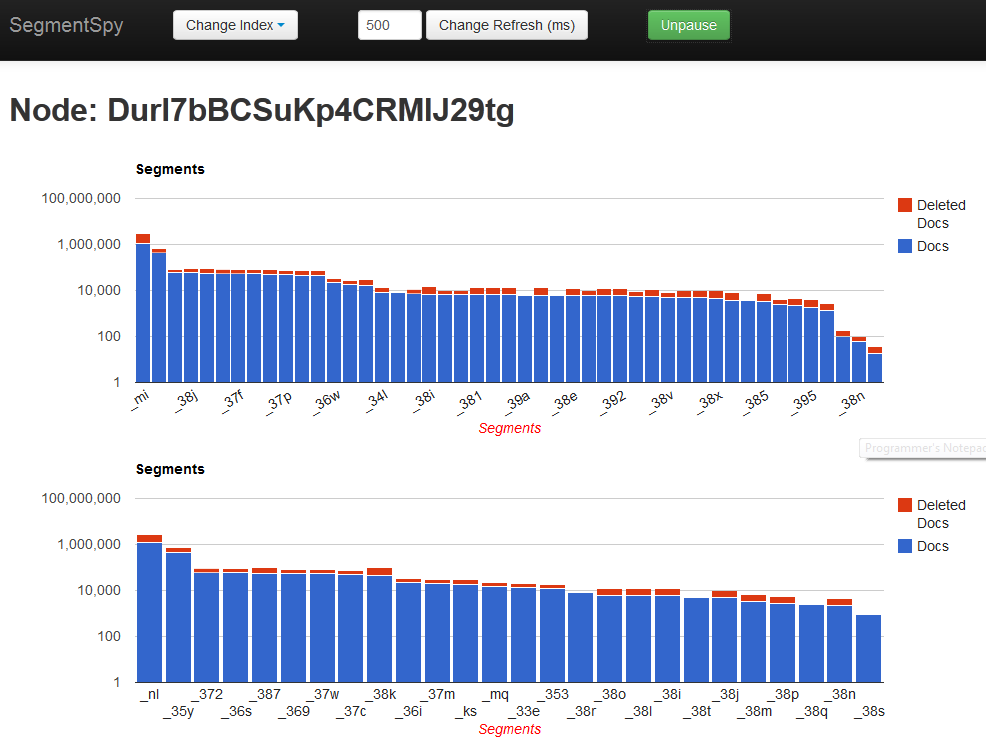
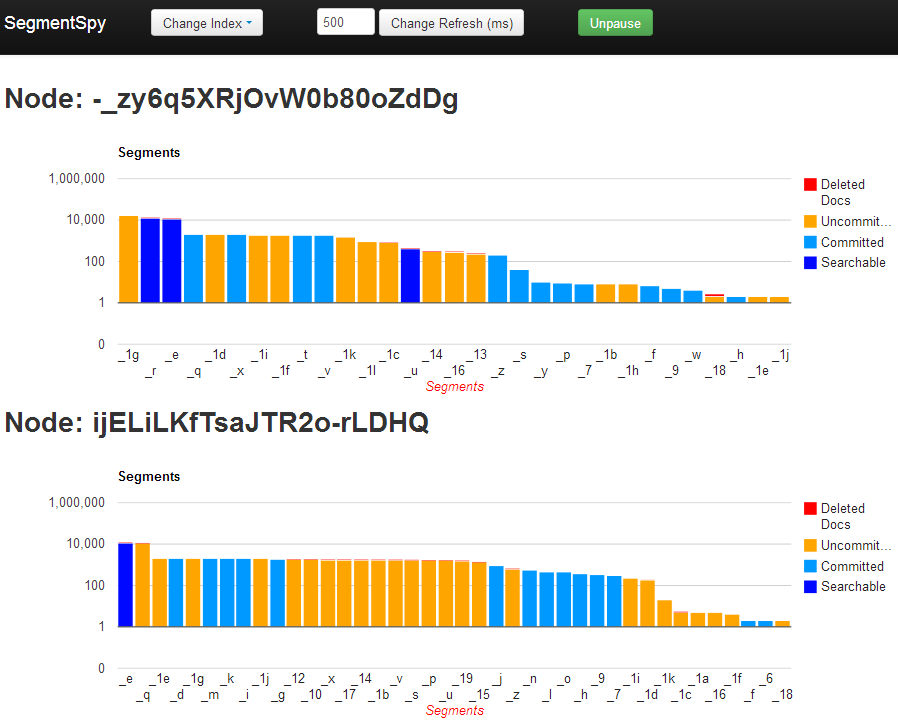
Add committed/uncommitted to graph, more accurate math

diff --git a/_site/js/app.js b/_site/js/app.js
@@ -11,6 +11,9 @@ $(document).ready(function () {
 	   }
 	}
 
+	function log10(val) {
+		return Math.log(val) / Math.LN10;
+	}
 
 		var global = {};
 		global.homeTemplate = Handlebars.compile($("#home-template").html());
@@ -85,6 +88,11 @@ $(document).ready(function () {
 			
 			
 				poll: function(index) {
+				
+					//Kill caching for all subsequent caching requests
+					$.ajaxSetup ({ 
+						cache: false 
+					}); 
 					
 					var formattedIndex = index;
 					
@@ -115,38 +123,49 @@ $(document).ready(function () {
 									if (typeof segments[divId] === 'undefined')
 										segments[divId] = [];
 										
-									segments[divId].push(['Segment ID', 'Docs', 'Deleted Docs']);
+									segments[divId].push(['Segment ID', 'Searchable', 'Committed', 'Uncommitted', 'Deleted Docs']);
 									
 									$.each(shardValuePR.segments, function (k,v) {
-									//console.log(shardKey + "_" +shardKeyPR);
-										//var temp = [];
-											//temp.id = k;
-											//temp.num_docs = v.num_docs;
-											//temp.deleted_docs = v.deleted_docs,
-											//temp.size_in_bytes = v.size_in_bytes / 1024 / 1024;
-
-									
-										var deleted = 1+(Math.log(v.num_docs, + v.deleted_docs) / Math.LN10) - (Math.log(v.deleted_docs) / Math.LN10);
-										//var deleted = v.deleted_docs;
 										
+											//bit of math to normalize our values, since Google Charts doesn't do stacked log scales.
+											var total = v.num_docs + v.deleted_docs;
+											var deleted = 1 + log10(total) - log10(v.num_docs);
+											
+											if (deleted == 1)
+												deleted = 0;
+											else if (!isFinite(deleted))
+												deleted = 0;
+												
+											//artificially boost num_docs by one, so you can see very small segments
+											v.num_docs += 1;
+											
+											if (v.search === true && v.committed === true)
+												segments[divId].push([k, v.num_docs, 0, 0, deleted]);
+											else if (v.search === false && v.committed === true)
+												segments[divId].push([k, 0, v.num_docs, 0, deleted]);
+											else
+												segments[divId].push([k, 0, 0, v.num_docs, deleted]);
 										
-										//segments[divId].push([k, Math.ceil(v.size_in_bytes / 1024 / 1024), v.deleted_docs]);
-										segments[divId].push([k, v.num_docs, deleted]);
 									});
 								});
 							});
-							
-							
-							$.each(segments, function (divId, segmentList) {
-								segmentList = segmentList.sort(function(a,b) {
-									return parseInt(b[1]) - parseInt(a[1]);
+
+							if (segments !== {}) {
+								$.each(segments, function (divId, segmentList) {
+									segmentList = segmentList.sort(function(a,b) {
+										//we can do this because only one of these values will be >0 due to 
+										//the quirky need to abuse Google Charts for multicolor
+										var docsA = a[1] + a[2] + a[3];
+										var docsB = b[1] + b[2] + b[3];
+										return parseInt(docsB) - parseInt(docsA);
+									});
+									
+									global.graphs[divId].setData(segmentList);
+									global.graphs[divId].drawChart();
+									
+								
 								});
-								
-								global.graphs[divId].setData(segmentList);
-								global.graphs[divId].drawChart();
-								
-							
-							});
+							}
 
 							context.poll(index);
 						});

diff --git a/_site/js/graph.js b/_site/js/graph.js
@@ -13,9 +13,7 @@ function getGrapher() {
 			isStacked: true,
 			vAxes: {0: {logScale: true},
 					1: {logScale: true, maxValue:1000000}},
-			series:{
-			   0:{targetAxisIndex:0},
-			   1:{targetAxisIndex:0}},
+			series:[{color: '#0008FF'}, {color: '#0099FF'},{color: 'orange'}, {color: 'red'}],
 			bar: {groupWidth: "90%"},
 		},
 		
